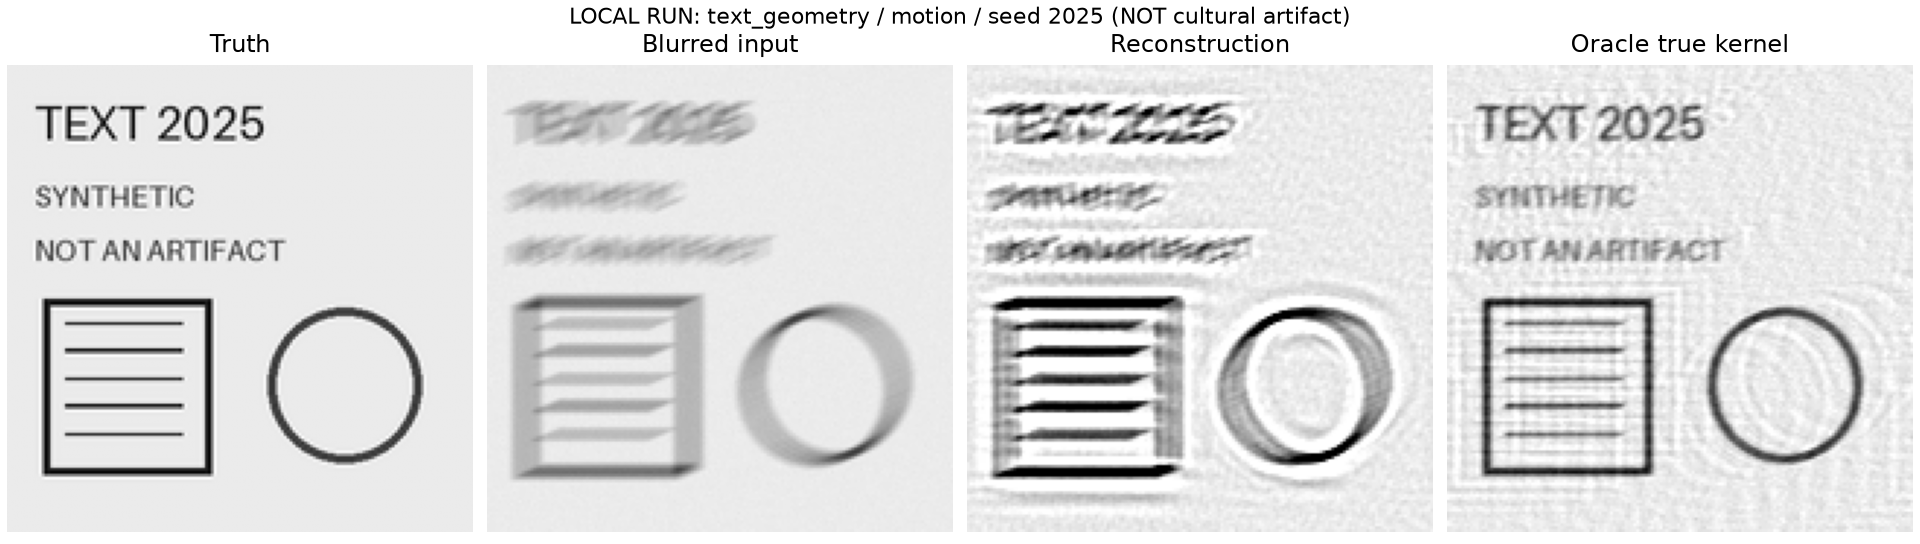
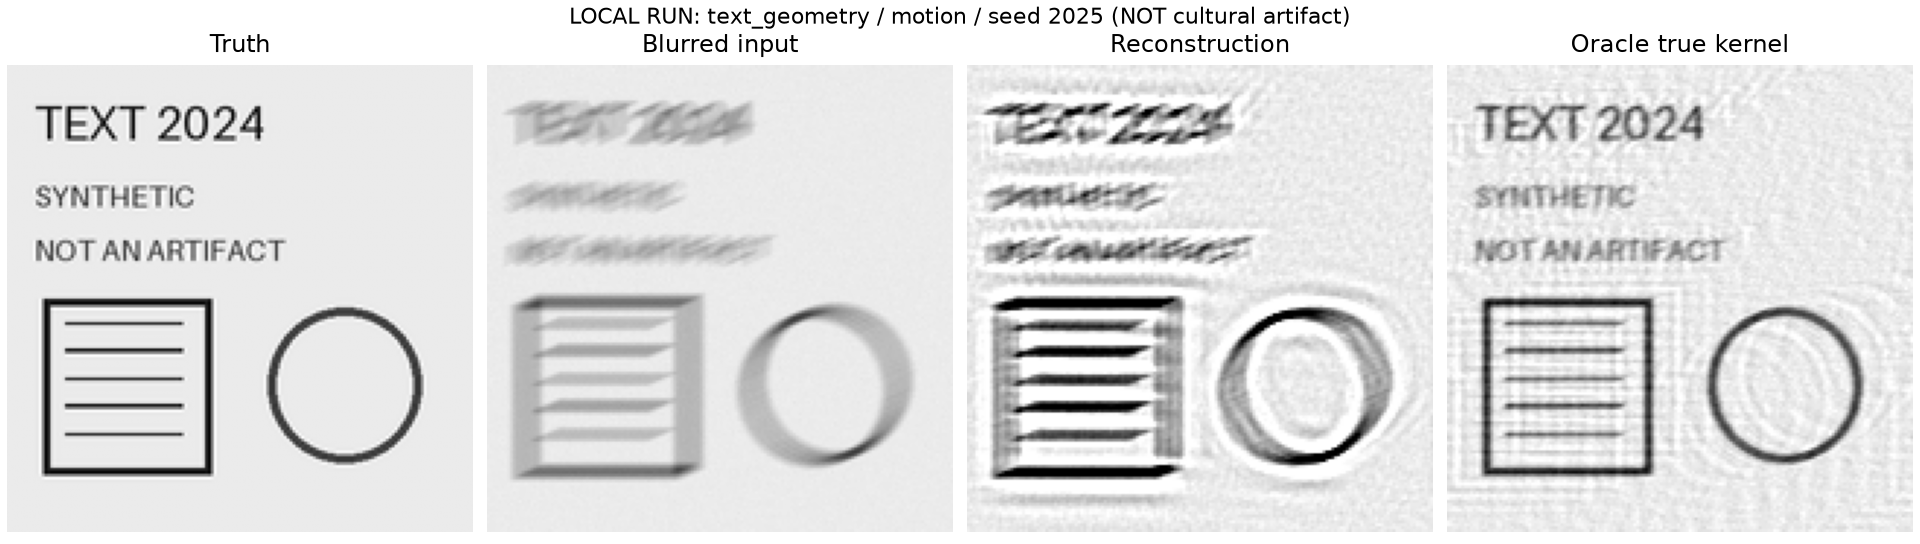
Update synthetic example to 2024 version

diff --git a/experiment.py b/experiment.py
@@ -35,7 +35,7 @@ def synthetic_image(size=160):
     draw = ImageDraw.Draw(canvas)
     font = ImageFont.load_default(size=max(12, size // 5))
     small = ImageFont.load_default(size=max(10, size // 8))
-    draw.text((size*.12, size*.12), 'TEXT 2025', font=font, fill=20)
+    draw.text((size*.12, size*.12), 'TEXT 2024', font=font, fill=20)
     draw.text((size*.12, size*.48), 'SYNTHETIC', font=small, fill=45)
     draw.text((size*.12, size*.71), 'NOT AN ARTIFACT', font=small, fill=45)
     draw.rectangle((size*.16, size, size*.88, size*1.75), outline=25, width=5)
